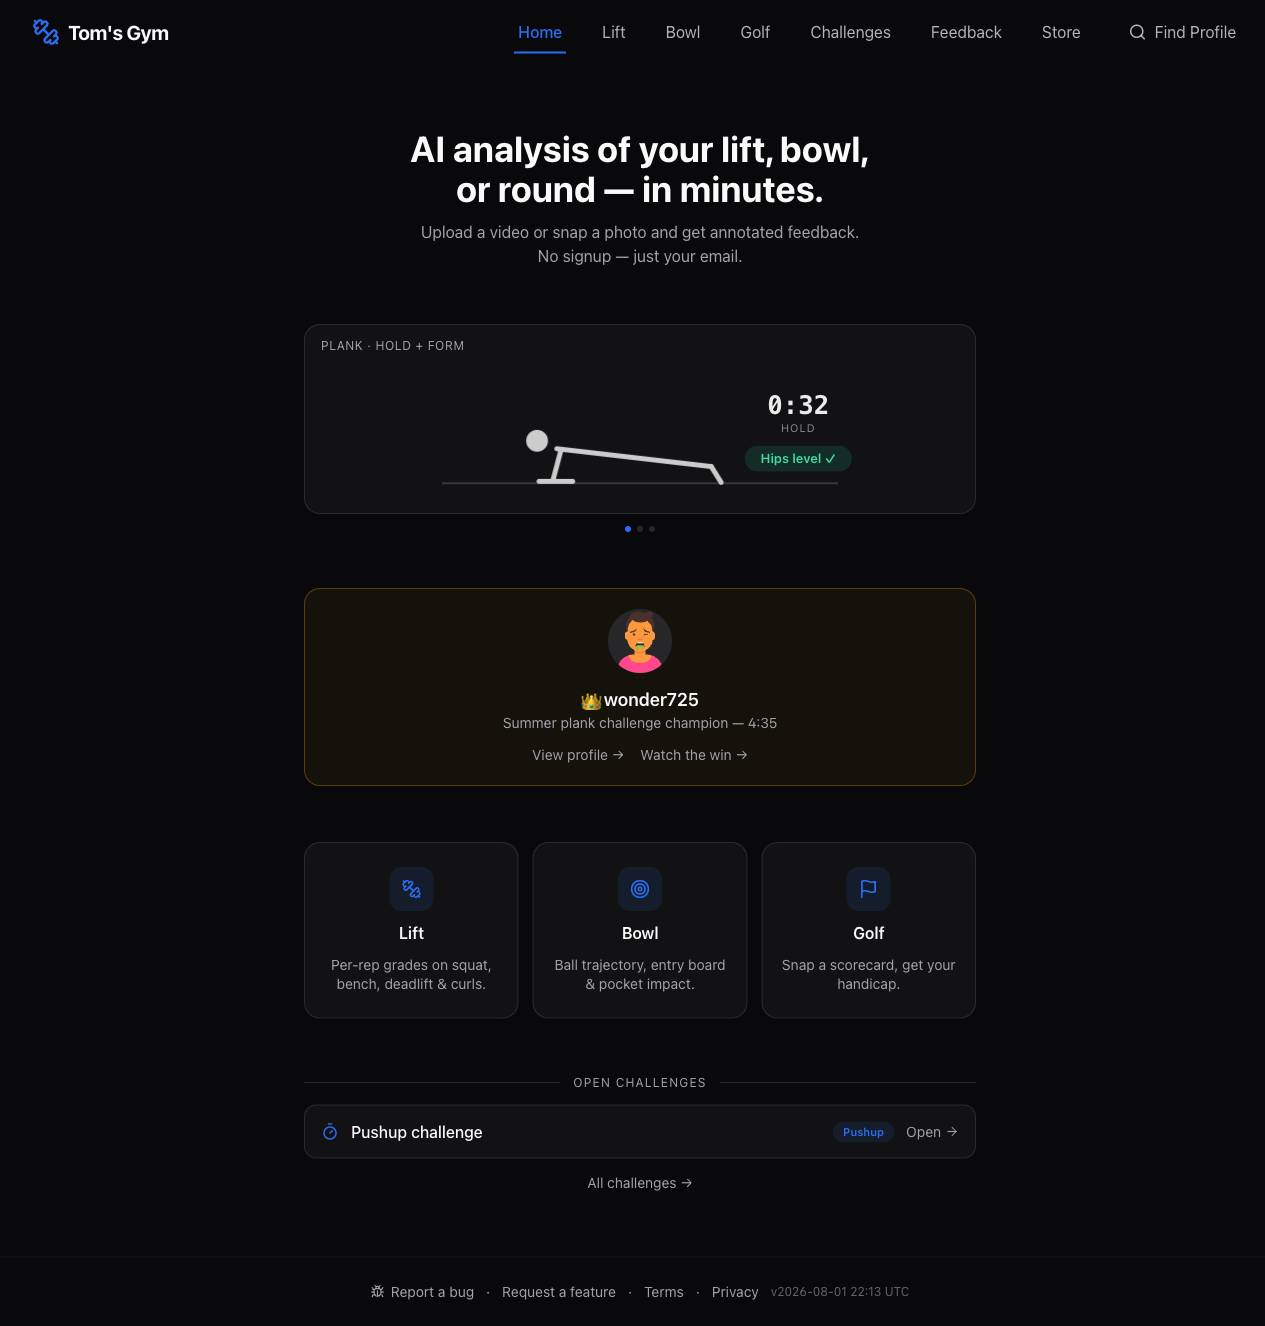
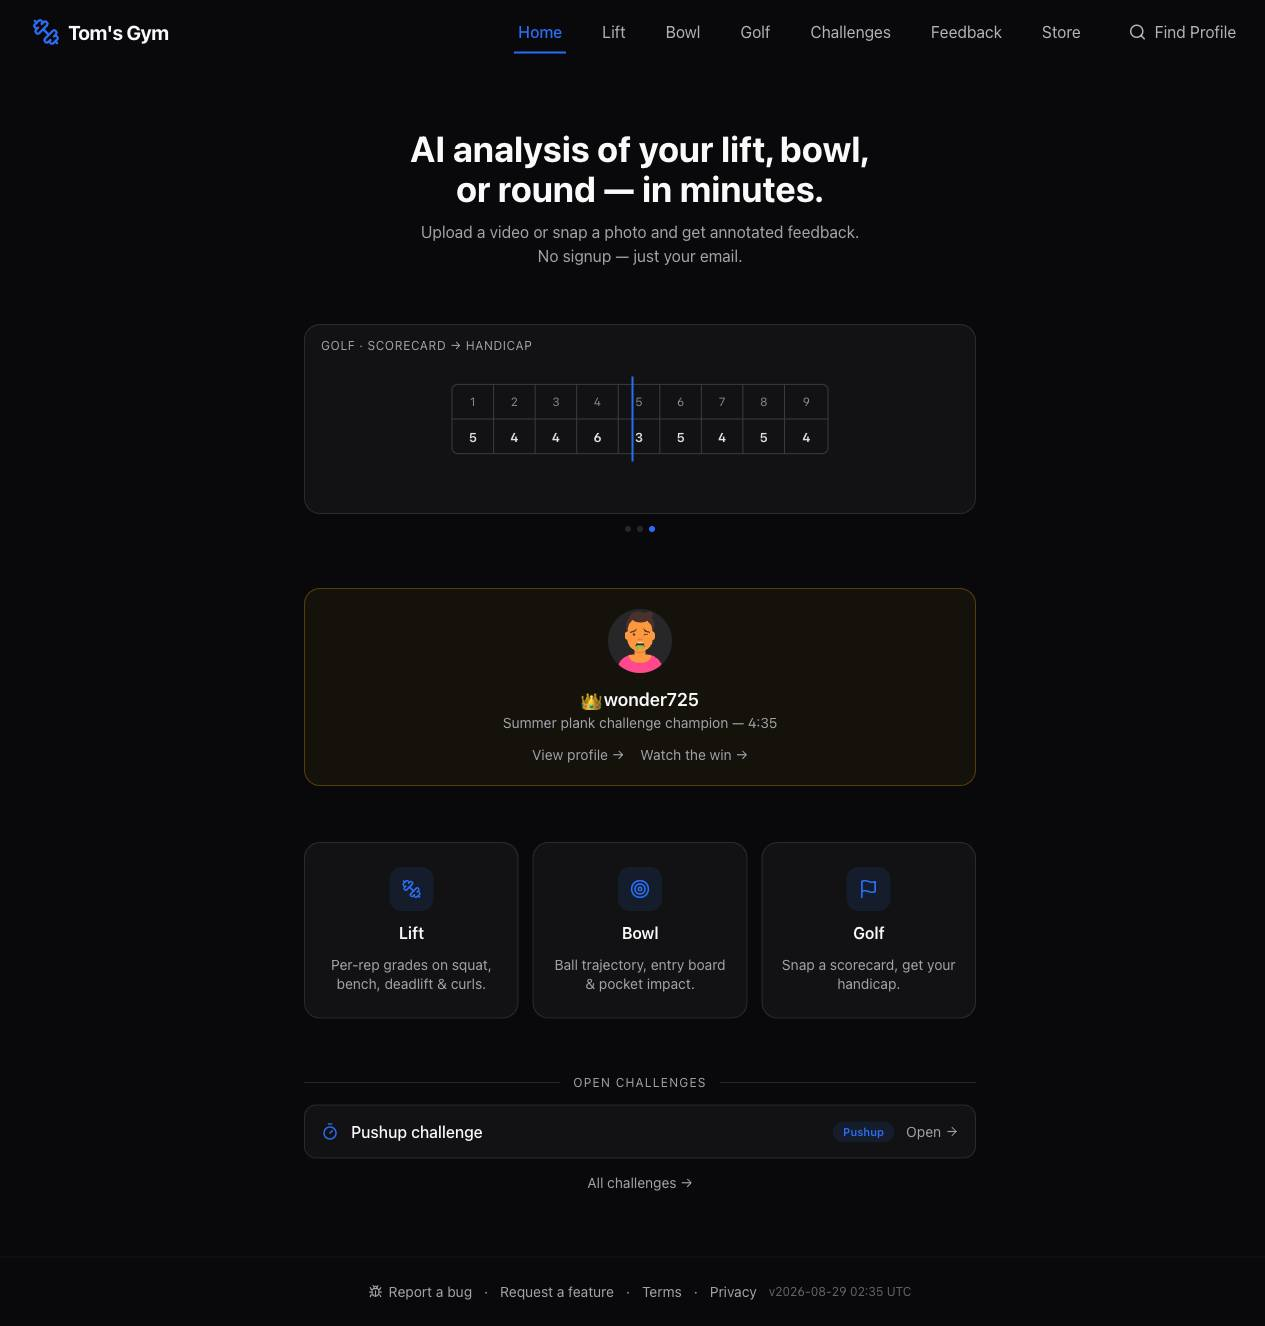
docs(site-map): record shipped home-tile and challenge-list fixes
Claude-Session: https://claude.ai/code/session_012iboqMUKF1GY1Dmj7wau93

diff --git a/docs/site-map/README.md b/docs/site-map/README.md
@@ -1,6 +1,6 @@
 # Tom's Gym — Site Walk & Workflow Map
 
-Captured **2026-08-28** against production (`https://my-frontend-quyiiugyoq-ue.a.run.app`, frontend build `v2026-08-01 22:13 UTC`) with Playwright at 1280×900 (plus three 390×844 mobile shots). Screenshots live in [`screenshots/`](screenshots/); each section links the pages it covers. This supersedes the 2026-07-06 walk — everything shipped since (home redesign, plank stats, lift/attempt history, steadiness nicknames, Challenge Champions, Pushup challenge) is reflected below. Feature internals are in `CLAUDE.md`; this doc is the *what a user sees where* view.
+Captured **2026-08-28** against production (`https://my-frontend-quyiiugyoq-ue.a.run.app`, frontend build `v2026-08-01 22:13 UTC`; `01-home` and `02-challenges` re-captured on `v2026-08-29 02:40 UTC` after the two fixes noted below shipped) with Playwright at 1280×900 (plus three 390×844 mobile shots). Screenshots live in [`screenshots/`](screenshots/); each section links the pages it covers. This supersedes the 2026-07-06 walk — everything shipped since (home redesign, plank stats, lift/attempt history, steadiness nicknames, Challenge Champions, Pushup challenge) is reflected below. Feature internals are in `CLAUDE.md`; this doc is the *what a user sees where* view.
 
 **Re-capturing:** the walk is a `browser_run_code_unsafe` script that `page.goto`s each route, dumps `h1`/buttons/internal links, and `page.screenshot({fullPage:true})`s into `screenshots/`. Dynamic ids (challenges, videos, profiles) are discovered from the links of the static pages, so the script needs no fixtures.
 
@@ -64,7 +64,7 @@ flowchart LR
 ```
 
 - Home ([01](screenshots/01-home.jpeg)) is the quiet-gym redesign: centered column, no photos. Order top→bottom: hero copy → 12s DemoLoop card with 3 dots → champion spotlight card (gold border) → three IconTiles → "OPEN CHALLENGES" strip → "All challenges →".
-- **As of this build the three home tiles link straight to the upload flows** (`/lift/upload`, `/bowling/upload`, `/golf/snap`), while the navbar's Lift/Bowl/Golf go to the hubs. Changed 2026-08-28 (uncommitted at capture time): tiles now go to `/lift` · `/bowl` · `/golf` so both paths land on the same hub. `/upload` ([27](screenshots/27-upload-chooser.jpeg)) still links straight to the upload pages.
+- The three home tiles go to the hubs `/lift` · `/bowl` · `/golf` — the same place as the navbar items (until 2026-08-28 they went straight to the upload flows). `/upload` ([27](screenshots/27-upload-chooser.jpeg)) still links straight to the upload pages.
 - Hubs ([24](screenshots/24-lift-hub.jpeg)–[26](screenshots/26-golf-hub.jpeg)): one primary CTA + RowCards — Lift: Upload a lift · Leaderboard (+ "Plank challenge" when one is ongoing; none was); Bowl: Upload only; Golf: Snap scorecard · Leaderboard · My golf profile.
 - Status page ([44](screenshots/44-lift-status-404.jpeg)) renders the queued state for any id, including unknown ones (404 from the result endpoint = "in line"), so a bad link never errors — it just polls forever.
 
@@ -91,7 +91,7 @@ flowchart LR
     CL --> BC["/bowling/challenge/:id\n(bowling challenges route here)"]
 ```
 
-- `/challenges` ([02](screenshots/02-challenges.jpeg)) at capture: "Open now" RowCard strip, then an "All Challenges" **image-card grid** (Unsplash placeholder photo per challenge). Changed 2026-08-28 (uncommitted): the grid is replaced by the same RowCard list as "Open now", with trailing Open / Preview / Results by status. Four lifting challenges + one bowling challenge (`/bowling/challenge/e93c…`) exist in prod.
+- `/challenges` ([02](screenshots/02-challenges.jpeg)): "Open now" RowCard strip, then an "All challenges" list of the same RowCards (lift-type pill; trailing Open / Preview / Results by status). Until 2026-08-28 this was an image-card grid with Unsplash placeholder photos. Four lifting challenges + one bowling challenge (`/bowling/challenge/e93c…`) exist in prod.
 - Three metrics are live, each with its own column header and payoff format: **REPS** (Pushup challenge `4bd57523…`, ongoing, [03](screenshots/03-challenge-detail-pushup.jpeg)), **HOLD** (Summer plank `a0f27fa4…`, [34](screenshots/34-challenge-detail-a0f2.jpeg)) and **TOTAL** weight ([32](screenshots/32-challenge-detail-plank.jpeg), [33](screenshots/33-challenge-detail-857f.jpeg)).
 - Plank boards show **steadiness nicknames** next to names ("💪 The Elusive Steady Eddie", "🌊 One-Shot The Wobbler", "🪼 Human Jellyfish"); ended challenges show 👑 on the winner's podium chip.
 - [32](screenshots/32-challenge-detail-plank.jpeg) has the attempt accordion expanded: rows of date · weight · grade pill, 🏆 on the best, and "—" for an unanalyzed attempt.
@@ -135,8 +135,8 @@ Store ([17](screenshots/17-store.jpeg), coming-soon cart), About ([18](screensho
 
 ## Observations from this walk
 
-1. **Home tiles vs nav disagree on where "Lift/Bowl/Golf" goes** (tiles → upload, nav → hub). Fixed locally 2026-08-28, pending deploy.
-2. **`/challenges` "All Challenges" grid** uses stock photos and a heavy card, inconsistent with the RowCard strip above it. Replaced locally 2026-08-28, pending deploy.
+1. ✅ Home tiles vs nav disagreed on where "Lift/Bowl/Golf" goes (tiles → upload, nav → hub). Fixed + deployed 2026-08-28.
+2. ✅ `/challenges` "All Challenges" grid used stock photos and a heavy card. Replaced with RowCards + deployed 2026-08-28. Found while doing it: the page's private competition transform never read the lift types (the API only ships them inside the description's JSON tail), so every pill said "Men" — now reuses `transformCompetitionData` from `lib/api.ts`.
 3. **Feedback link preselects the wrong type** from the footer's "Request a feature" (user-reported ticket).
 4. **`/feedback/list` is public and writable** — anyone can flip statuses (user-reported; known accepted risk in `CLAUDE.md`, but users notice).
 5. **Bad status links poll forever** (`/lift/status/<garbage>` shows "Queued") — no "we can't find this attempt" state.
